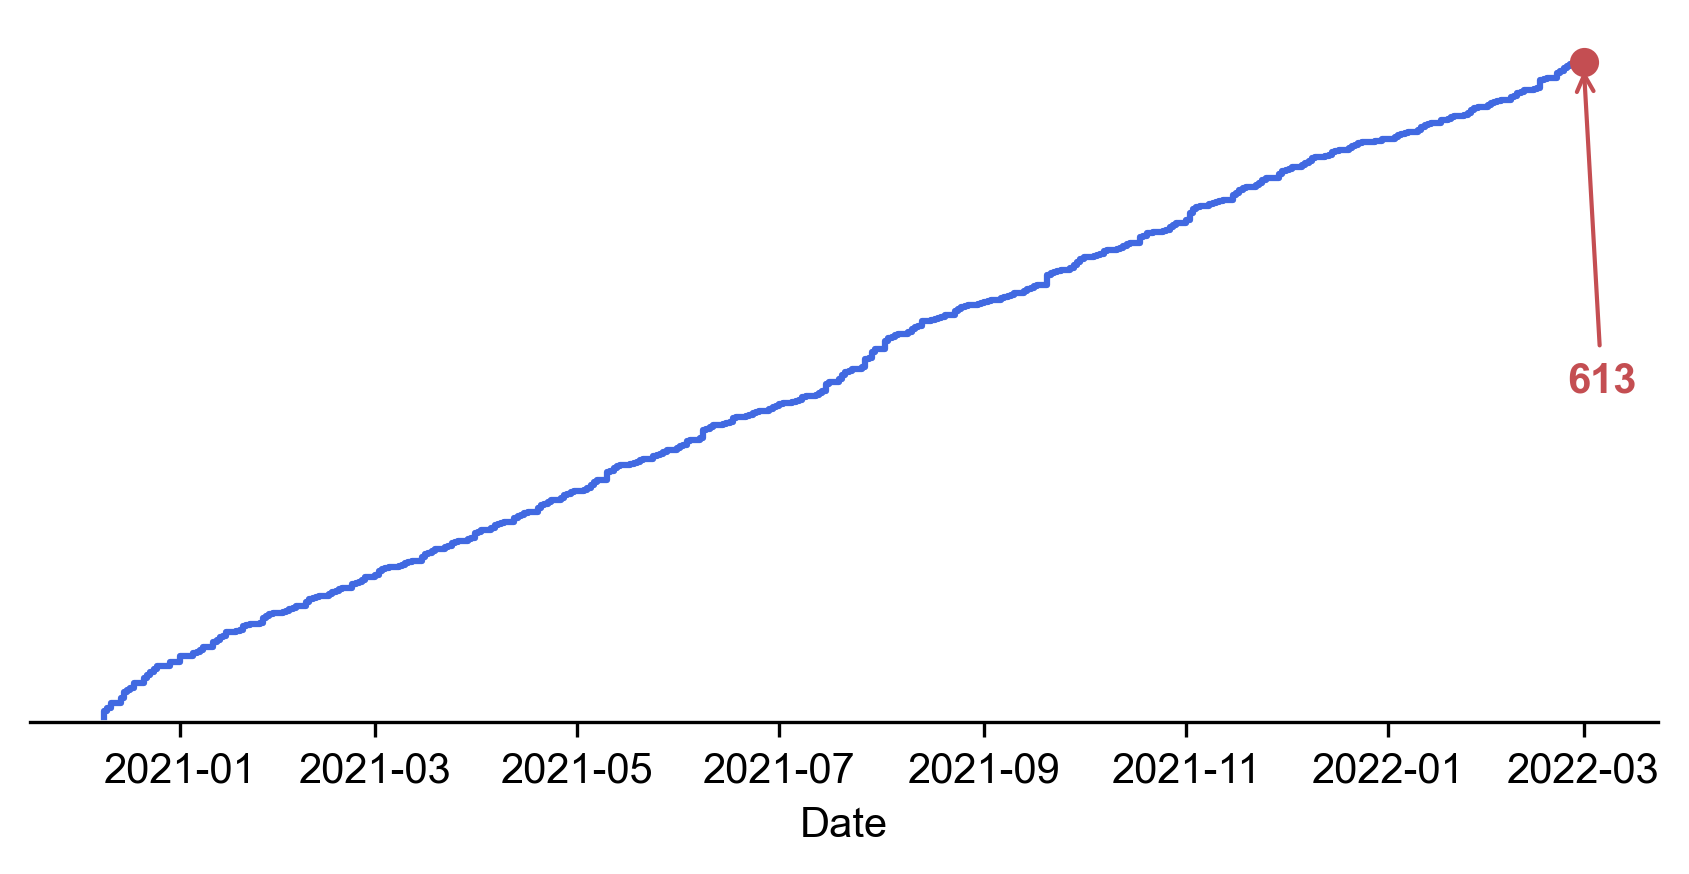
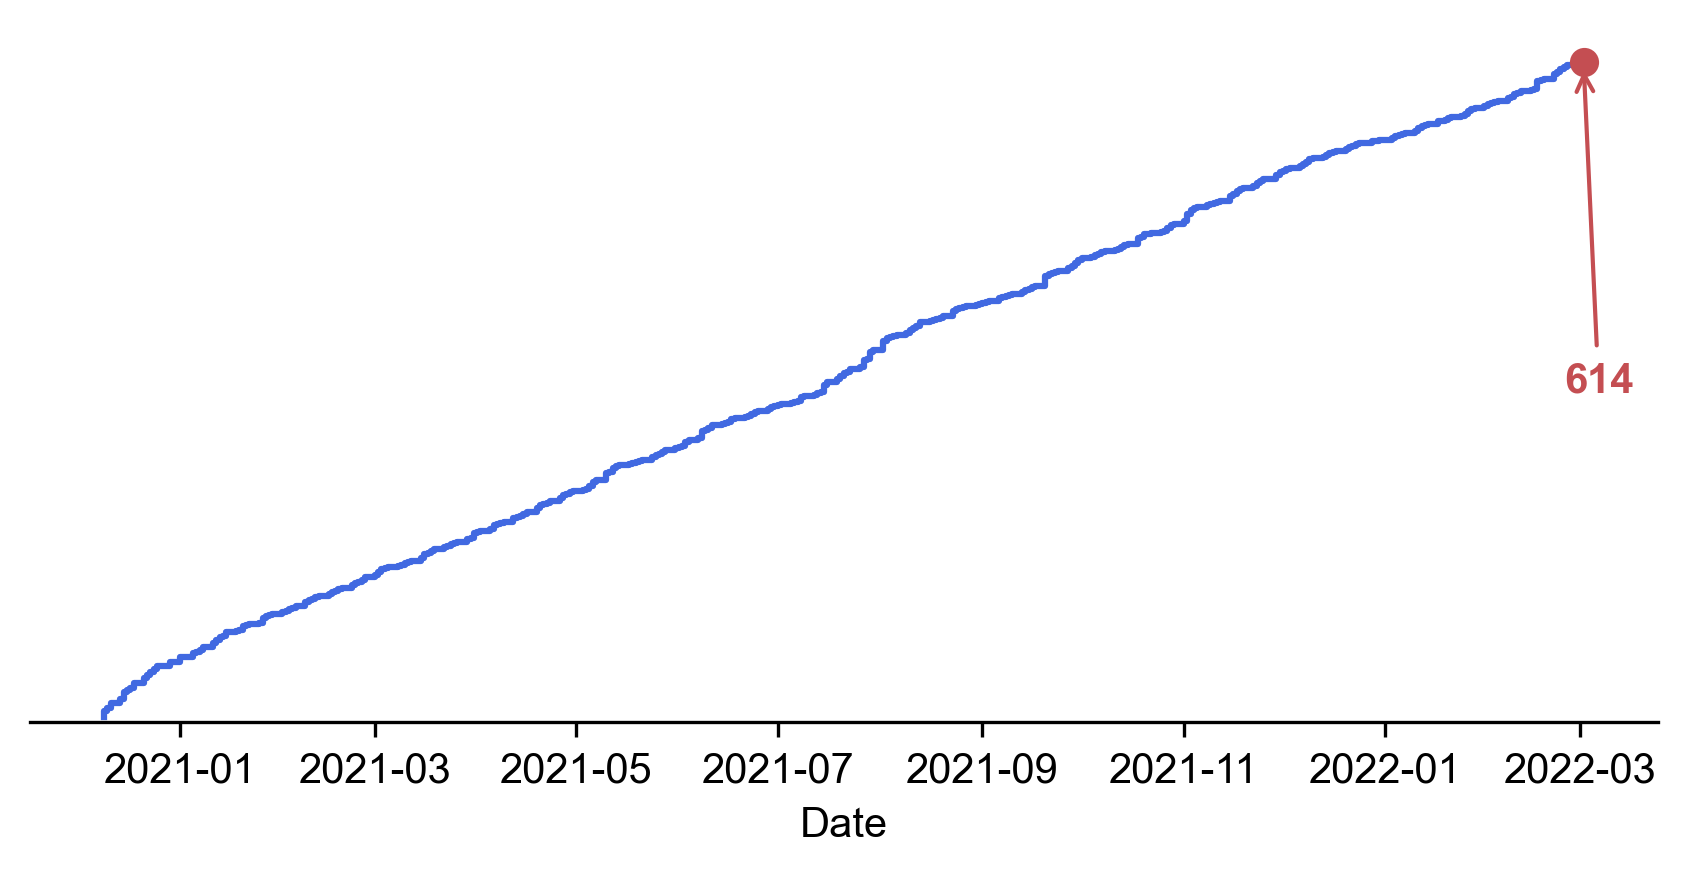
2022-03-02

diff --git a/2022/03/AstroPH-2022-03.md b/2022/03/AstroPH-2022-03.md
@@ -14,3 +14,11 @@
 
 ## 2022-03-02
 
+1. [Homogeneous Transit Timing Analyses of Ten Exoplanet Systems](https://arxiv.org/abs/2203.00299)
+
+   > Stellar, Exoplanet, Light Curve
+
+   分析了10颗系外行星的凌星时间，没有发现行星轨道会有周期性的变化，轨道预计会在可观测的时间尺度上衰减。
+
+## 2022-03-03
+
